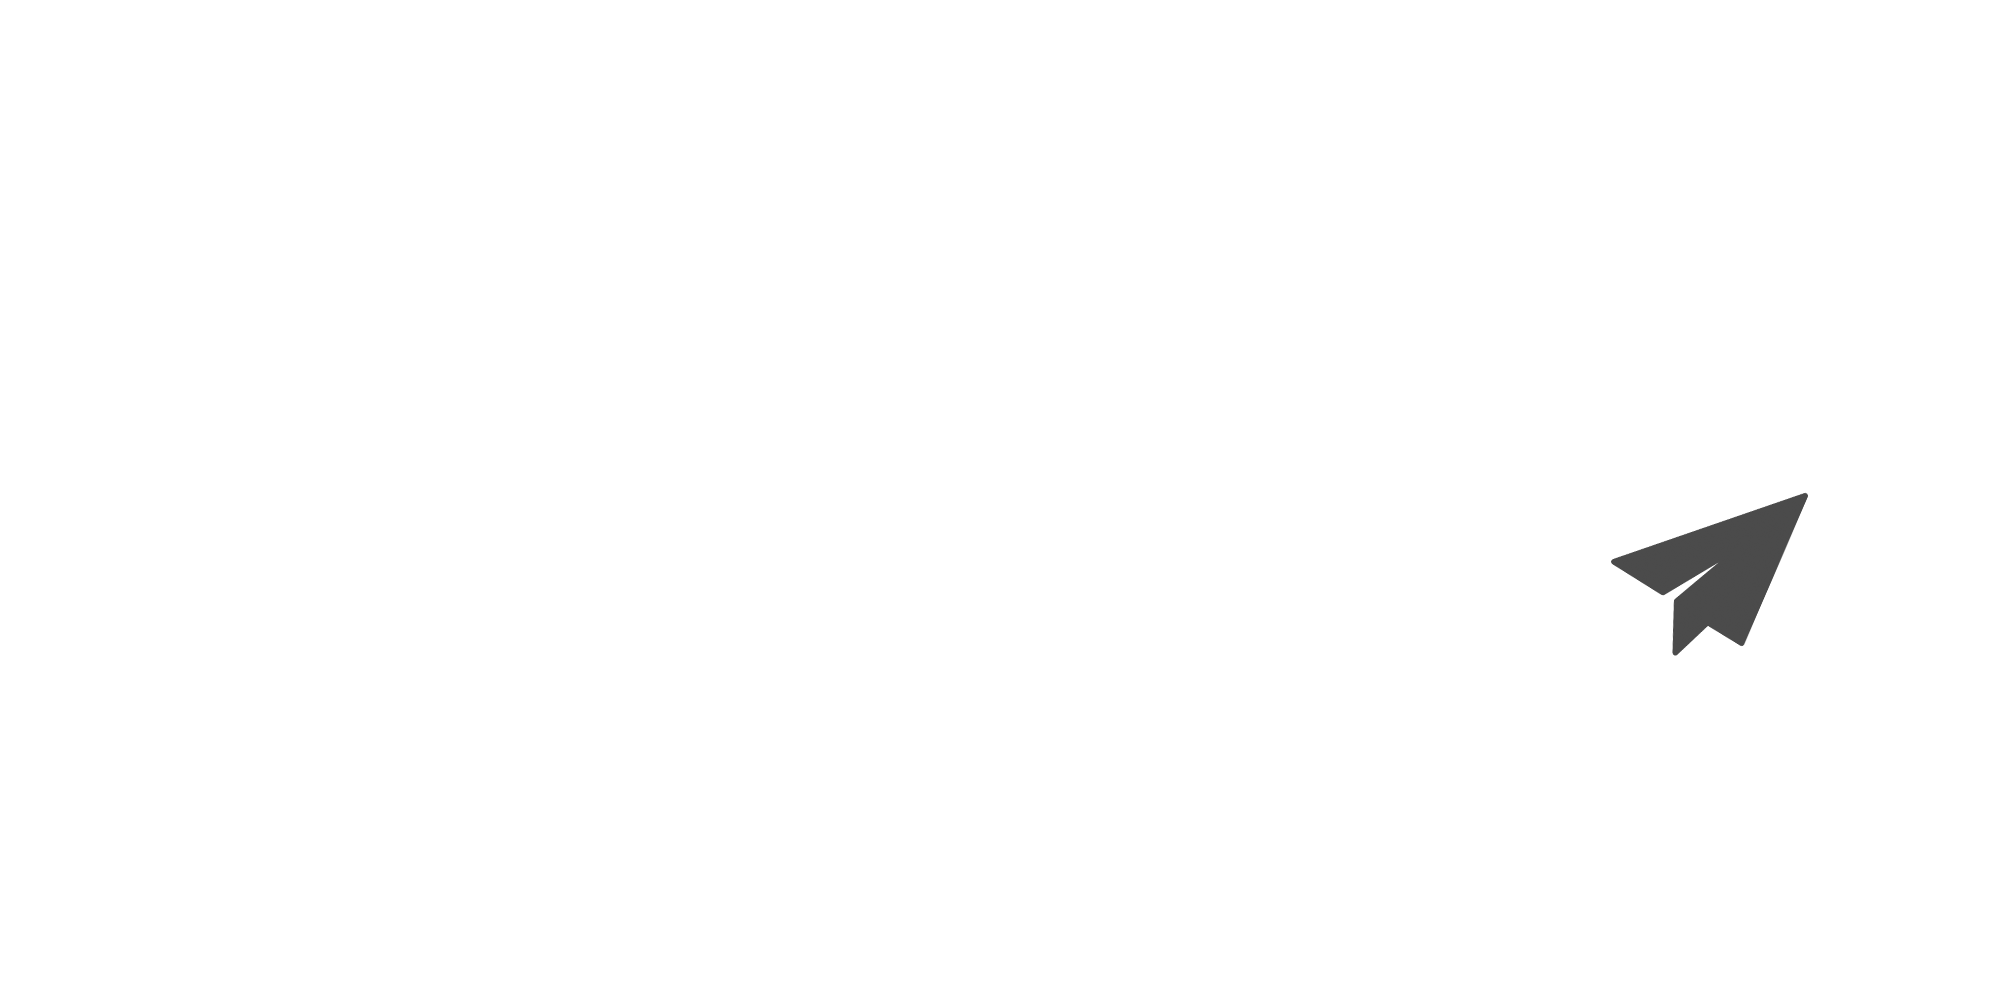
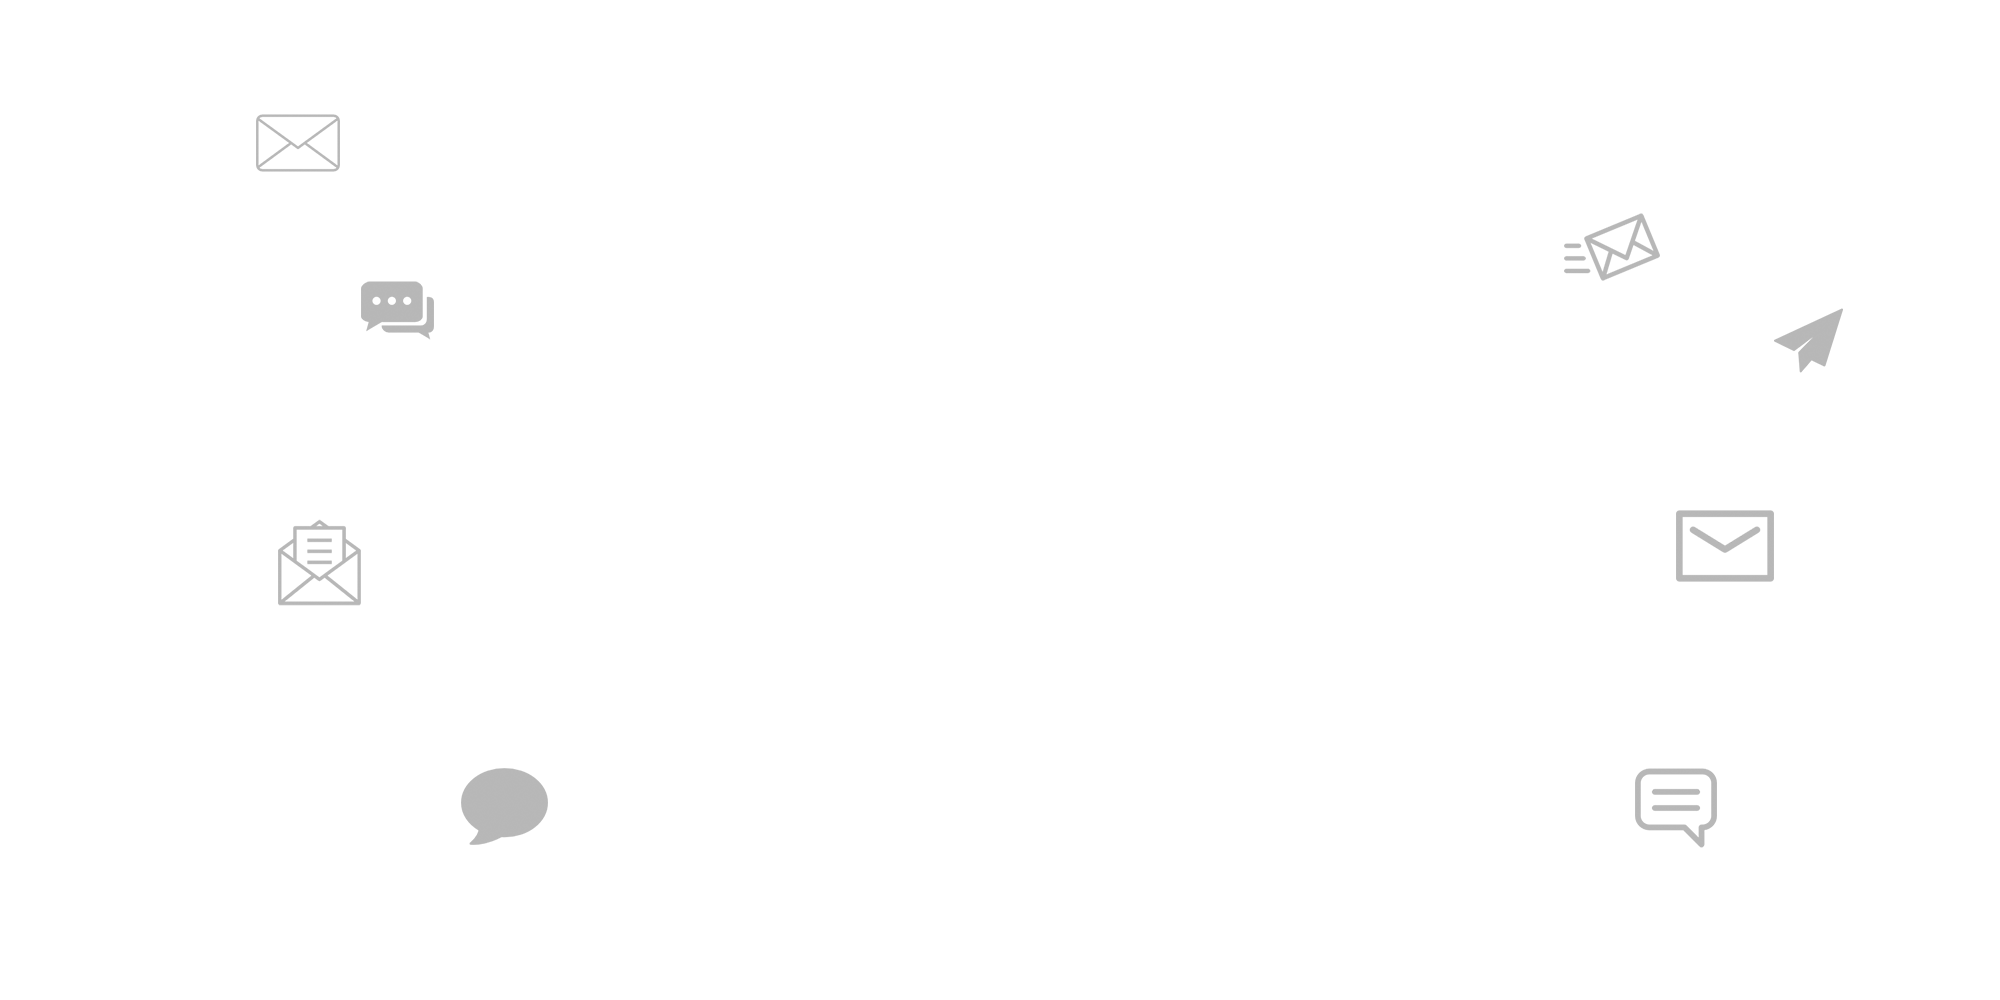
fondo para el contact_us

diff --git a/app/assets/stylesheets/static_pages.scss b/app/assets/stylesheets/static_pages.scss
@@ -34,17 +34,24 @@
   background-color: white;
   background-repeat: no-repeat;
   background-size: 100%;
+  background-attachment: fixed;
 }
 
 // Cuerpo de la seccion de "contactenos"
 .body-contact {
-  padding-top: 30px;
-  padding-bottom: 30px;
+  padding-top: 40px;
+  padding-bottom: 40px;
   background-image: url("back_contact.png");
   background-color: white;
   background-repeat: no-repeat;
   background-attachment: fixed;
   background-size: 100%;
+}
+
+.body-contact-alone {
+  padding-top: 30px;
+  padding-bottom: 30px;
+  background-color: white;
   margin-top: -10px;
 }
 
